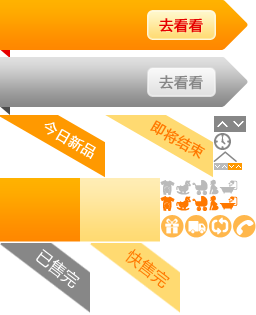
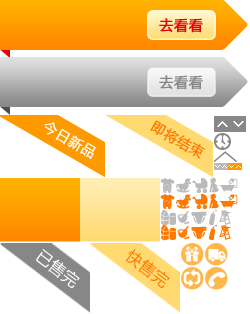
补齐分类图标

diff --git a/website/css/flash_sales.css b/website/css/flash_sales.css
@@ -14,27 +14,26 @@
 .mod-menu a { padding: 0 10px;margin-top:-6px;display:block;line-height: 24px;color: #4d4d4d;}
 .mod-menu a:hover,.mod-menu .menu-now{color: #ff7800;text-decoration: none; border-bottom: 2px solid #ff7800;}
 .mod-menu .icon {float: left;height: 15px; margin: 5px 5px 0 0; background-image: url("../images/flash_sales/bg_flash_sales.png");background-repeat: no-repeat; display: inline-block;overflow: hidden;}
-.mod-menu .menu-bbfs .icon {background-position: -160px -180px; width: 15px;}
-.mod-menu .menu-bbfs:hover .icon, .mod-menu .menu-bbfs .icon-now {background-position: -160px -196px;}
-.mod-menu .menu-wjts .icon {background-position: -175px -180px; width: 16px;}
-.mod-menu .menu-wjts:hover .icon, .mod-menu .menu-wjts .icon-now {background-position: -175px -196px;}
-.mod-menu .menu-ccqj .icon {background-position: -192px -180px; width: 17px;}
-.mod-menu .menu-ccqj:hover .icon, .mod-menu .menu-ccqj .icon-now {background-position: -192px -196px;}
-.mod-menu .menu-mama .icon {background-position: -209px -180px; width: 11px;}
-.mod-menu .menu-mama:hover .icon, .mod-menu .menu-mama .icon-now {background-position: -209px -196px;}
-.mod-menu .menu-bbyp .icon {background-position: -220px -180px; width: 19px;}
-.mod-menu .menu-bbyp:hover .icon, .mod-menu .menu-bbyp .icon-now {background-position: -220px -196px;}
-
-.mod-menu .menu-3 .icon {background-position: -160px -180px; width: 15px;}
-.mod-menu .menu-3:hover .icon, .mod-menu .menu-bbfs .icon-now {background-position: -160px -196px;}
-.mod-menu .menu-9 .icon {background-position: -175px -180px; width: 16px;}
-.mod-menu .menu-9:hover .icon, .mod-menu .menu-wjts .icon-now {background-position: -175px -196px;}
-.mod-menu .menu-7 .icon {background-position: -192px -180px; width: 17px;}
-.mod-menu .menu-7:hover .icon, .mod-menu .menu-ccqj .icon-now {background-position: -192px -196px;}
-.mod-menu .menu-11 .icon {background-position: -209px -180px; width: 11px;}
-.mod-menu .menu-11:hover .icon, .mod-menu .menu-mama .icon-now {background-position: -209px -196px;}
-.mod-menu .menu-6 .icon {background-position: -220px -180px; width: 19px;}
-.mod-menu .menu-6:hover .icon, .mod-menu .menu-bbyp .icon-now {background-position: -220px -196px;}
+.mod-menu .menu-2 .icon {background-position: -208px -210px; width: 11px;}
+.mod-menu .menu-2:hover .icon, .mod-menu .menu-2 .icon-now {background-position: -208px -225px;}
+.mod-menu .menu-3 .icon {background-position: -160px -178px; width: 15px;}
+.mod-menu .menu-3:hover .icon, .mod-menu .menu-3 .icon-now {background-position: -160px -194px;}
+.mod-menu .menu-5 .icon {background-position: -177px -210px; width: 13px;}
+.mod-menu .menu-5:hover .icon, .mod-menu .menu-5 .icon-now {background-position: -177px -225px;}
+.mod-menu .menu-6 .icon {background-position: -220px -178px; width: 19px;}
+.mod-menu .menu-6:hover .icon, .mod-menu .menu-6 .icon-now {background-position: -220px -194px;}
+.mod-menu .menu-7 .icon {background-position: -192px -178px; width: 17px;}
+.mod-menu .menu-7:hover .icon, .mod-menu .menu-7 .icon-now {background-position: -192px -194px;}
+.mod-menu .menu-9 .icon {background-position: -175px -178px; width: 16px;}
+.mod-menu .menu-9:hover .icon, .mod-menu .menu-9 .icon-now {background-position: -175px -194px;}
+.mod-menu .menu-11 .icon {background-position: -209px -178px; width: 11px;}
+.mod-menu .menu-11:hover .icon, .mod-menu .menu-11 .icon-now {background-position: -209px -194px;}
+.mod-menu .menu-441 .icon {background-position: -160px -210px; width: 17px;}
+.mod-menu .menu-441:hover .icon, .mod-menu .menu-441 .icon-now {background-position: -160px -225px;}
+.mod-menu .menu-442 .icon {background-position: -190px -210px; width: 18px;}
+.mod-menu .menu-442:hover .icon, .mod-menu .menu-442 .icon-now {background-position: -190px -225px;}
+.mod-menu .menu-443 .icon {background-position: -218px -210px; width: 14px;}
+.mod-menu .menu-443:hover .icon, .mod-menu .menu-443 .icon-now {background-position: -218px -225px;}
 
 /*mod-brand-onsell*/
 .mod-brand-onsell {margin-top:10px; background-color: #fff;box-shadow: 0 1px 3px #ccc;  }
@@ -85,10 +84,10 @@
 .commitment-box li {padding:10px; border-top:1px solid #f4f4f4; font-size:14px; font-weight:400;}
 .commitment-box li em {color: #f90; font-style:normal; }
 .commitment-box .icon {float:left; margin-top:-2px; width:24px;height:24px;margin-right:10px;}
-.commitment-box .icon-time {background-position: -160px -214px;}
-.commitment-box .icon-free {background-position: -184px -214px;}
-.commitment-box .icon-return {background-position: -208px -214px;}
-.commitment-box .icon-tel {background-position: -232px -214px;}
+.commitment-box .icon-time {background-position: -180px -243px;}
+.commitment-box .icon-free {background-position: -204px -243px;}
+.commitment-box .icon-return {background-position: -180px -267px;}
+.commitment-box .icon-tel {background-position: -204px -267px;}
 .commitment-box .hotline { padding:0 0 0 34px;color: #bababa;font-size:11px;}
 
 /*popup*/

diff --git a/website/flash_sales_detail.html b/website/flash_sales_detail.html
@@ -1036,11 +1036,11 @@
         <div class="mod-menu">
             <ul id="fs_menu_box">
                 <li><a href="/" class="menu-all">全部分类</a></li>
-                <li><a target="_blank" href="" class="menu-bbfs"><span class="icon"></span>宝宝服饰</a></li>
-                <li><a target="_blank" href="" class="menu-wjts"><span class="icon"></span>玩具图书</a></li>
-                <li><a target="_blank" href="" class="menu-ccqj"><span class="icon"></span>车床寝具</a></li>
-                <li><a target="_blank" href="" class="menu-mama menu-now"><span class="icon icon-now"></span>妈妈专区</a></li>
-                <li><a target="_blank" href="" class="menu-bbyp"><span class="icon"></span>宝宝用品</a></li>
+                <li><a target="_blank" href="" class="menu-3"><span class="icon"></span>宝宝服饰</a></li>
+                <li><a target="_blank" href="" class="menu-9"><span class="icon"></span>玩具图书</a></li>
+                <li><a target="_blank" href="" class="menu-7"><span class="icon"></span>车床寝具</a></li>
+                <li><a target="_blank" href="" class="menu-11 menu-now"><span class="icon icon-now"></span>妈妈专区</a></li>
+                <li><a target="_blank" href="" class="menu-6"><span class="icon"></span>宝宝用品</a></li>
                 <li><a target="_blank" href="" class="">怀孕期</a></li>
                 <li><a target="_blank" href="" class="">0-12个月</a></li>
                 <li><a target="_blank" href="" class="">12-24个月</a></li>

diff --git a/website/flash_sales.html b/website/flash_sales.html
@@ -1033,11 +1033,11 @@
         <div class="mod-menu">
             <ul id="fs_menu_box">
                 <li><a href="/" class="menu-all menu-now">全部分类</a></li>
-                <li><a target="_blank" href="" class="menu-bbfs"><span class="icon"></span>宝宝服饰</a></li>
-                <li><a target="_blank" href="" class="menu-wjts"><span class="icon"></span>玩具图书</a></li>
-                <li><a target="_blank" href="" class="menu-ccqj"><span class="icon"></span>车床寝具</a></li>
-                <li><a target="_blank" href="" class="menu-mama"><span class="icon"></span>妈妈专区</a></li>
-                <li><a target="_blank" href="" class="menu-bbyp"><span class="icon"></span>宝宝用品</a></li>
+                <li><a target="_blank" href="" class="menu-3"><span class="icon"></span>宝宝服饰</a></li>
+                <li><a target="_blank" href="" class="menu-9"><span class="icon"></span>玩具图书</a></li>
+                <li><a target="_blank" href="" class="menu-7"><span class="icon"></span>车床寝具</a></li>
+                <li><a target="_blank" href="" class="menu-11"><span class="icon"></span>妈妈专区</a></li>
+                <li><a target="_blank" href="" class="menu-6"><span class="icon"></span>宝宝用品</a></li>
                 <li><a target="_blank" href="" class="">怀孕期</a></li>
                 <li><a target="_blank" href="" class="">0-12个月</a></li>
                 <li><a target="_blank" href="" class="">12-24个月</a></li>
